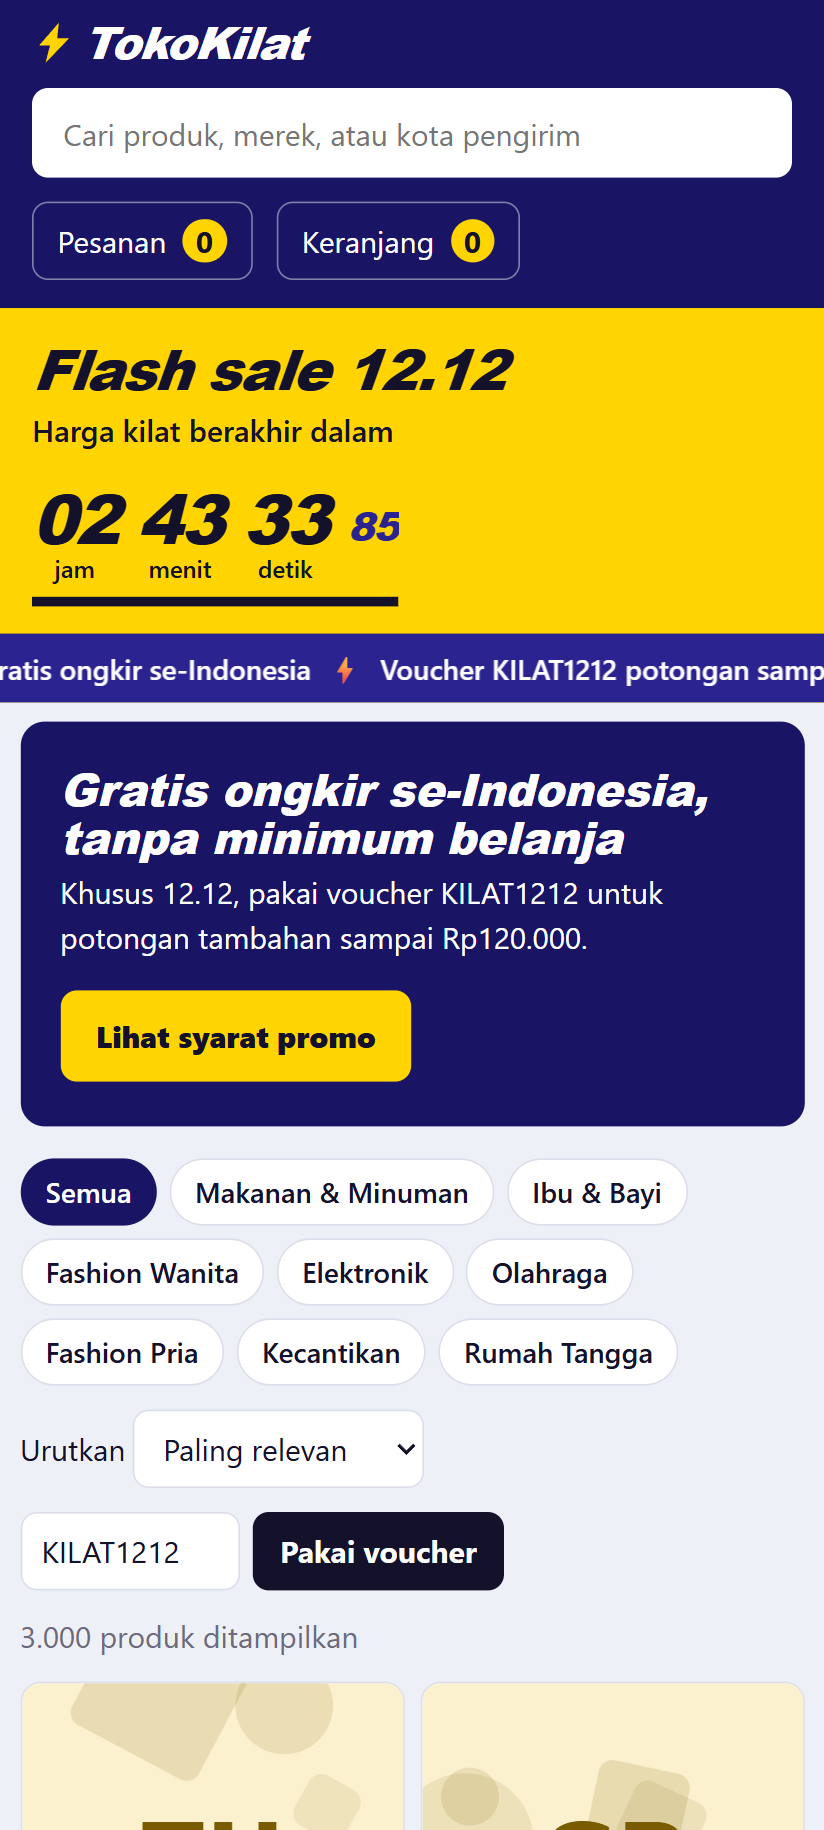
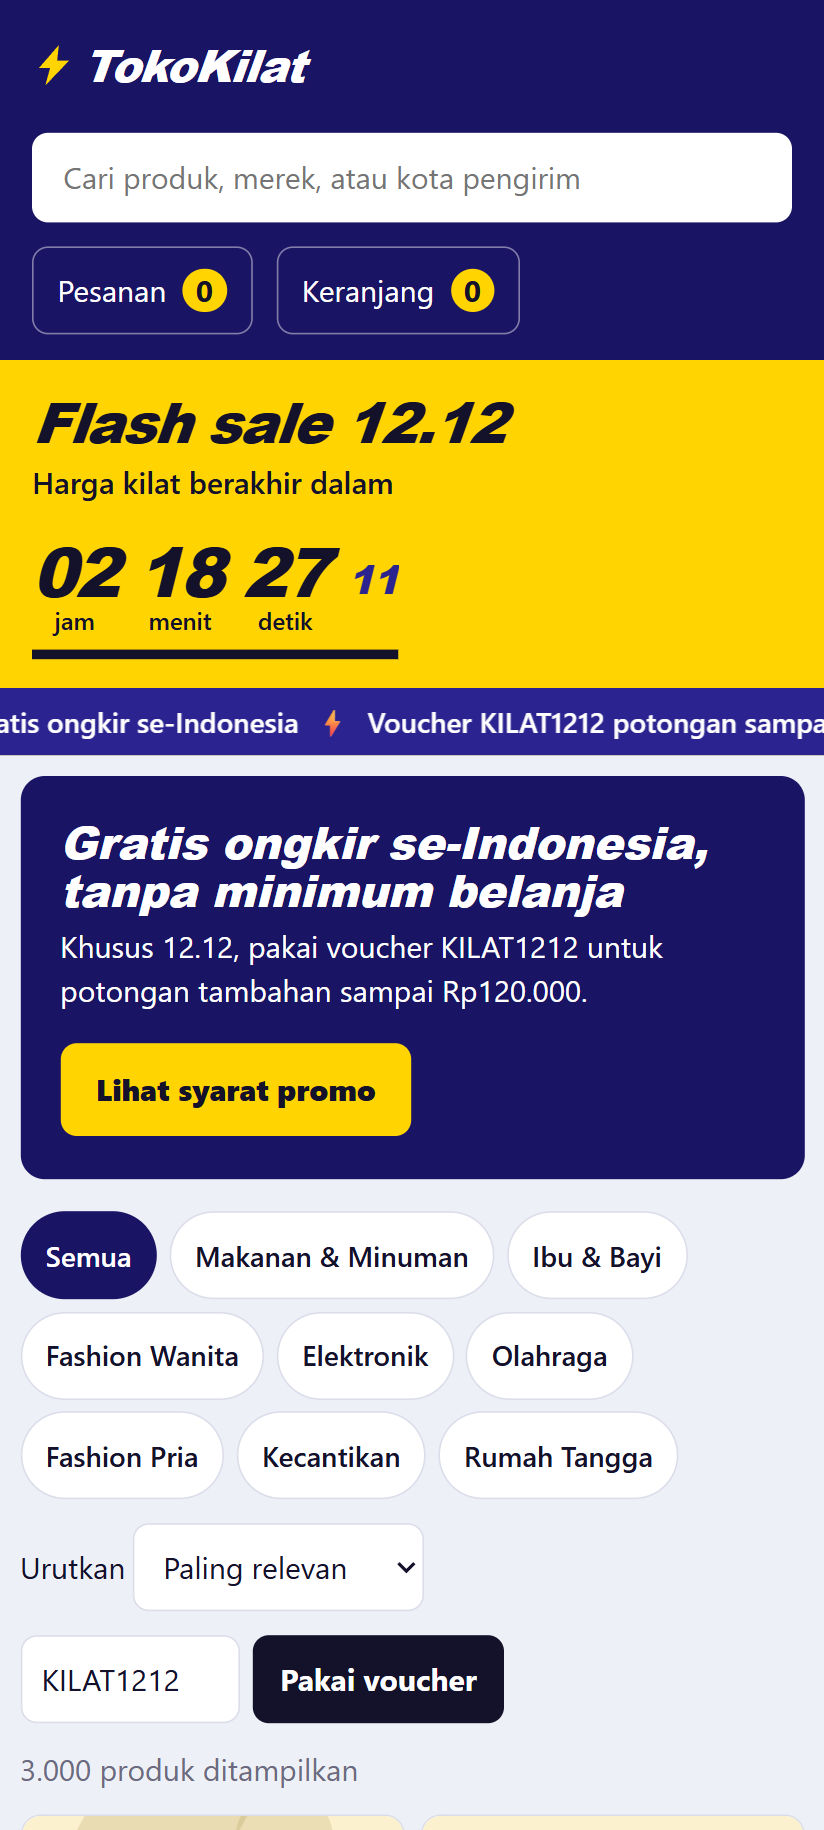
docs: note accessibility fixes outside tickets

diff --git a/laporan/LAPORAN.md b/laporan/LAPORAN.md
@@ -192,6 +192,7 @@ temuan diurutkan dari dampak terbesar. nomor P-xx merujuk ke laporan/PREDIKSI.md
 - untuk tim rekomendasi: riwayat di localStorage sudah 1,2 MB dan terus bertambah tanpa batas; perlu kesepakatan jumlah entri maksimum.
 - untuk tim bisnis: harga voucher tidak dibulatkan ke ratusan (contoh Rp 76.208 di gambar/06-harga-voucher.png). ini perilaku aturan asli dan tidak kami ubah.
 - pengukuran 4x hanya bisa dilakukan untuk versi sesudah perbaikan, jadi pasangan trace sebelum dan sesudah memakai 1x. kondisi ini disebut di bagian 2.
+- perbaikan aksesibilitas di luar tiket, ditemukan saat uji click-through dan pemeriksaan tata letak: panel keranjang kini bisa ditutup dengan Escape dan fokus keyboard ikut berpindah (85fb6e3); fokus tidak lagi jatuh ke body setelah tombol "Ke atas" dipakai (937d811); target ketuk yang lebih kecil dari 44 px (tombol header 39 px, keping kategori 34 px, tautan logo 22 px) diperbesar sesuai WCAG 2.5.5 (commit terakhir di public/css/toko.css). setelah perubahan tinggi ini, tinggi banner sebelum dan sesudah terisi dicek ulang di 6 lebar layar dan tetap sama.
 - verifikasi fungsi: laporan/bench/periksa-fungsi.js menjalankan 26 pemeriksaan klik dengan input asli pada viewport 412 x 915 (hasil di laporan/hasil/periksa-fungsi.json, tangkapan layar di laporan/gambar/01 sampai 09). semua lolos, tanpa galat konsol, dan ketujuh event SDK tetap terkirim.
 
 ## 7. pernyataan penggunaan AI dan pembagian kerja
